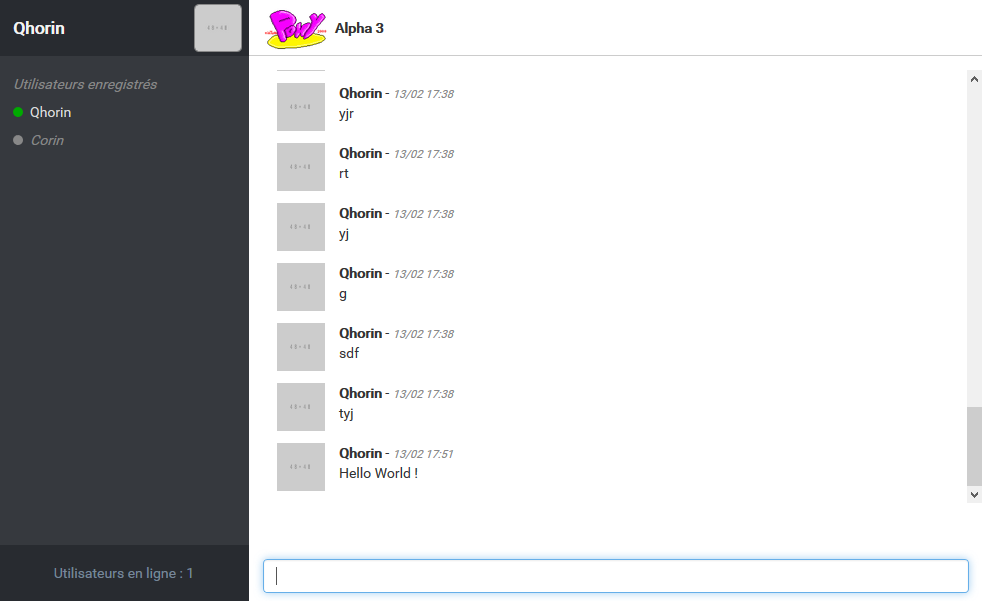
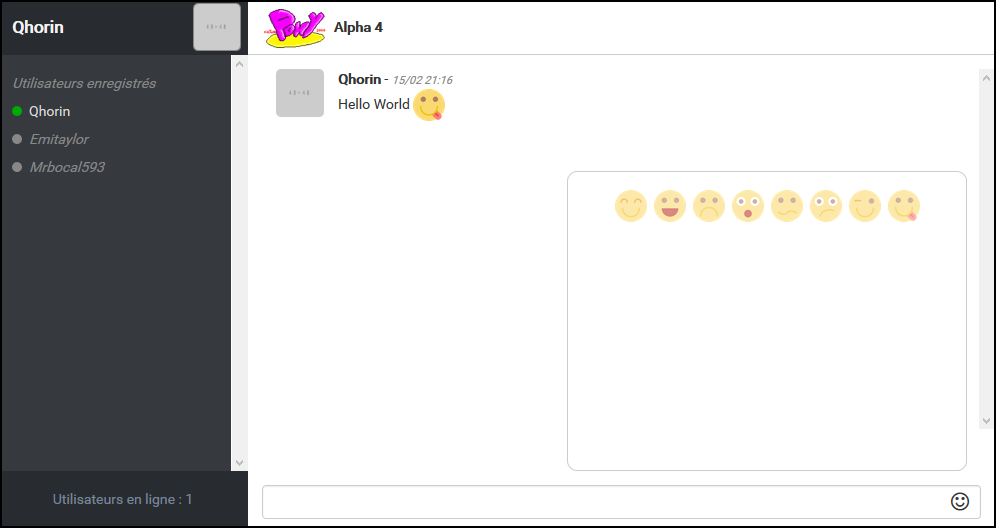
maj readme et screenshot

diff --git a/index.html b/index.html
@@ -59,7 +59,7 @@
                <main>
                     <header>
                          <img src="img/logo.png" alt="Virtual Pony 2000">
-                         <strong>Alpha 3</strong>
+                         <strong>Alpha 4</strong>
                     </header>
 
                     <section>

diff --git a/README.md b/README.md
@@ -18,6 +18,13 @@
 * PDO
 
 ## Changelog
+* **15/02/2017**
+     * Ajout emoticones
+	 * Ajout support commandes
+	 * Classement utilisateurs connectés
+	 * Amélioration affichage
+	 * Correction faille injection html
+
 * **13/02/2017**
      * Refonte graphique
      * Ajout liste utilisateurs
